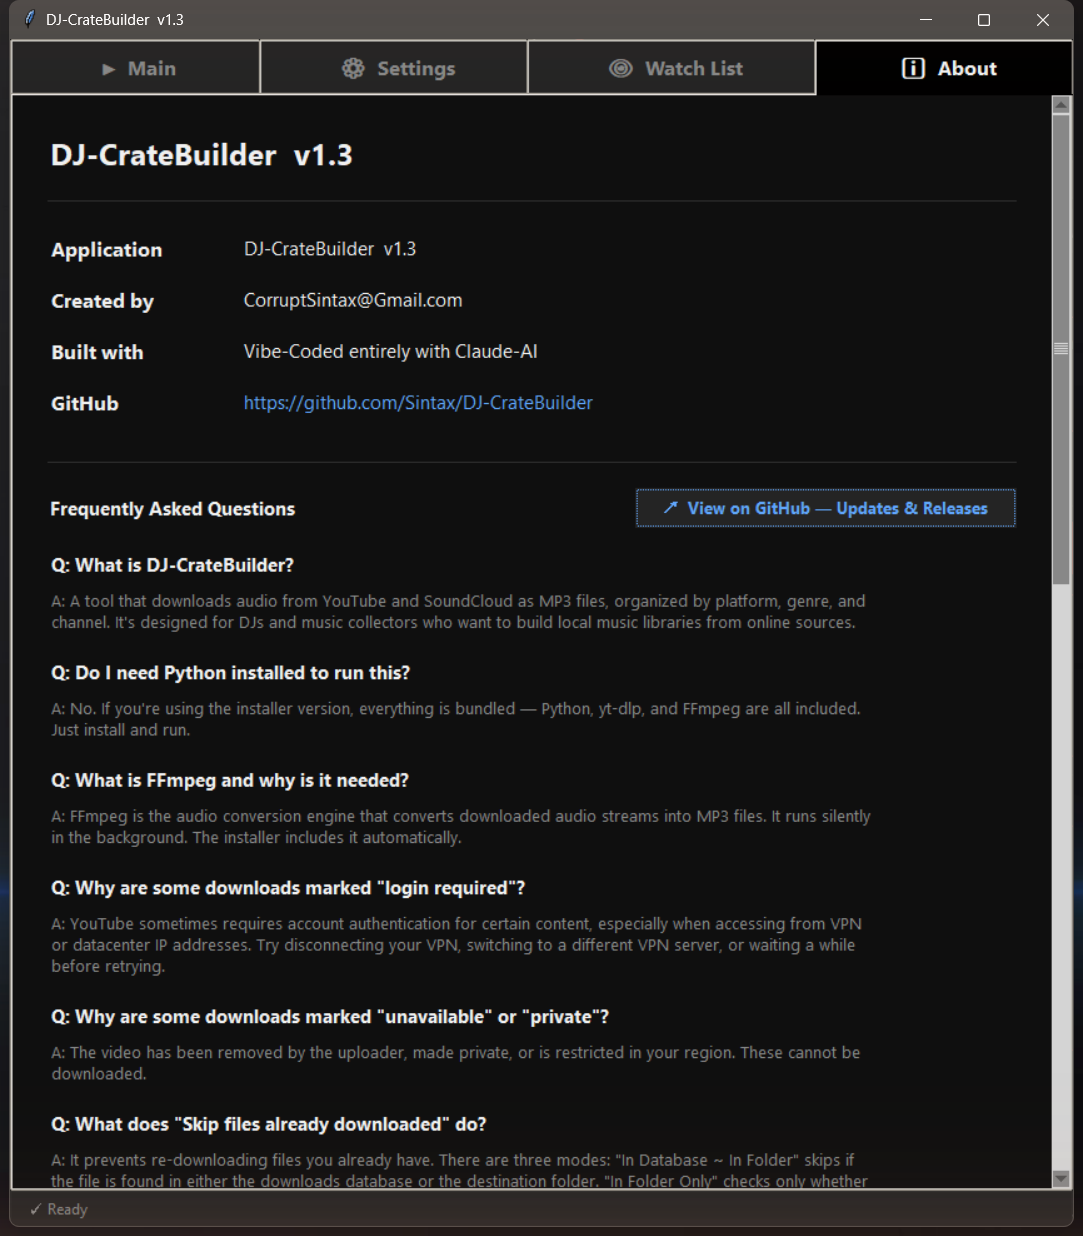
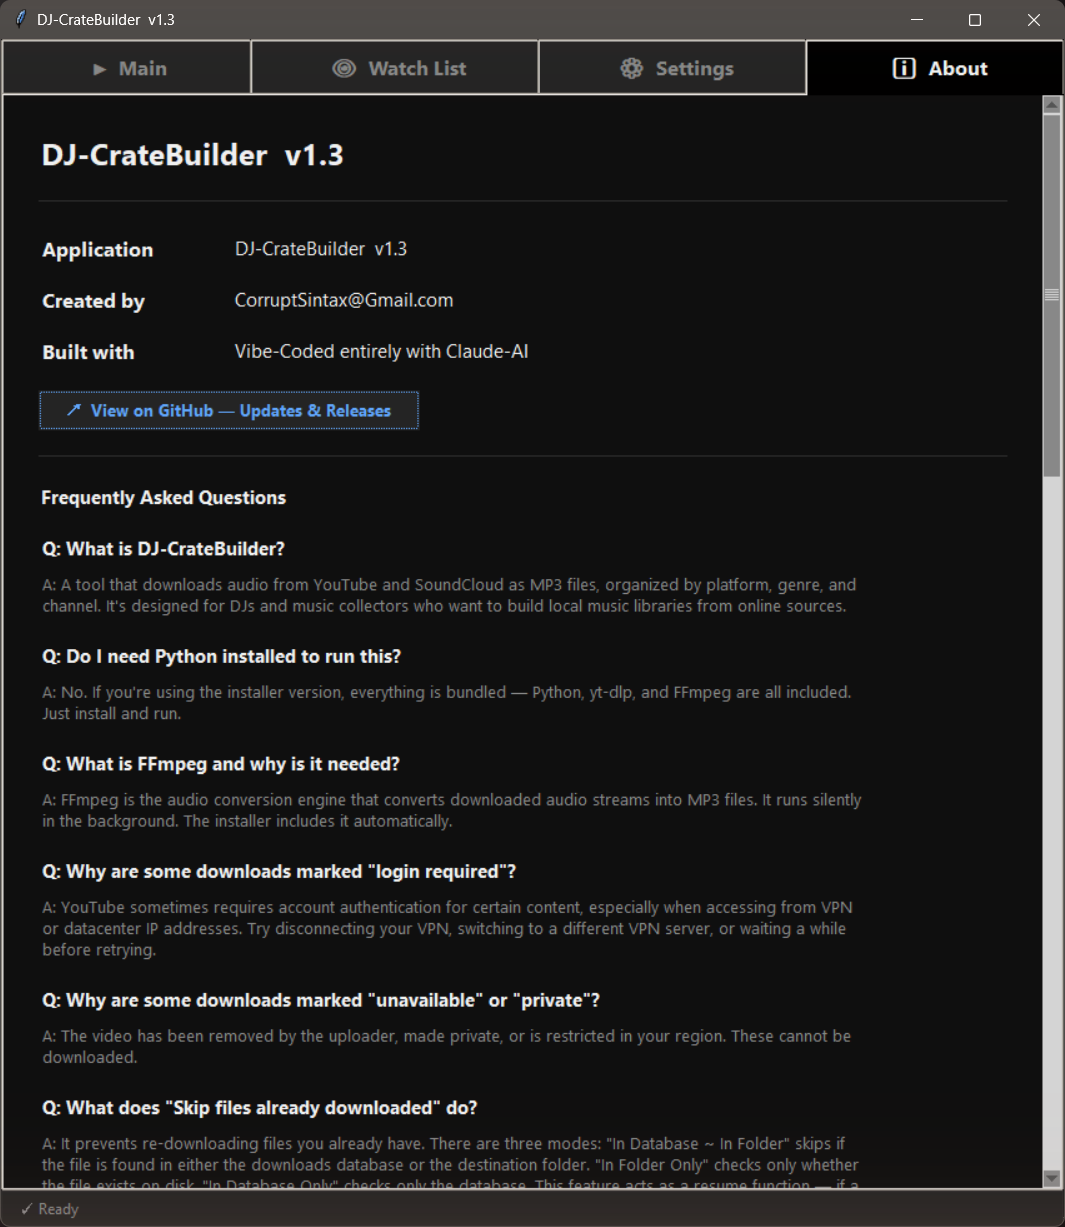
docs(v1.3): refresh README screenshots and fix installer scripts
- Capture fresh per-tab screenshots (Main → Watch List → Settings → About)
  and restructure README screenshots block to show each in order.
- install-linux.sh: install pystray + Pillow via requirements.txt and copy
  the cratebuilder/ package — without it v1.3 fails to import on launch.
- install-windows.bat: drop the stale worktree path + v1.2 fallback, point
  at the script's own directory, and verify cratebuilder/ is present.
- Packaging_Guide.md: ship cratebuilder/, requirements.txt, icon.ico in
  the Linux archive; expand the release checklist.

diff --git a/docs/Packaging_Guide.md b/docs/Packaging_Guide.md
@@ -77,14 +77,28 @@ This is the "just as easy as Windows" path you tested on the Linux Mint VM. No W
 
 ## What you ship
 
-A single archive (zip or tar.gz) containing three files:
+A single archive (zip or tar.gz) containing the launcher script, the
+`cratebuilder/` package it imports, the install/uninstall scripts, and the
+requirements file:
 
 ```
 DJ-CrateBuilder-v1.3-linux/
 ├── DJ-CrateBuilder_v1.3.py
+├── cratebuilder/            # required — the .py imports from this package
+│   ├── __init__.py
+│   ├── db.py
+│   ├── sidecar.py
+│   ├── startup.py
+│   ├── tray.py
+│   └── util.py
+├── requirements.txt         # yt-dlp, pystray, Pillow
+├── icon.ico                 # optional — used by the .desktop entry
 ├── install-linux.sh
 └── uninstall-linux.sh
 ```
+
+`install-linux.sh` refuses to run if `cratebuilder/` is missing — v1.3 will not
+launch without it.
 
 ## Build the release archive
 
@@ -93,9 +107,15 @@ From the repo root:
 ```bash
 mkdir -p release/DJ-CrateBuilder-v1.3-linux
 cp DJ-CrateBuilder_v1.3.py    release/DJ-CrateBuilder-v1.3-linux/
+cp -r cratebuilder            release/DJ-CrateBuilder-v1.3-linux/
+cp requirements.txt           release/DJ-CrateBuilder-v1.3-linux/
+cp icon.ico                   release/DJ-CrateBuilder-v1.3-linux/ 2>/dev/null || true
 cp install-linux.sh           release/DJ-CrateBuilder-v1.3-linux/
 cp uninstall-linux.sh         release/DJ-CrateBuilder-v1.3-linux/
 chmod +x release/DJ-CrateBuilder-v1.3-linux/*.sh
+
+# Strip any local __pycache__ so it doesn't ship
+find release/DJ-CrateBuilder-v1.3-linux -name __pycache__ -type d -exec rm -rf {} +
 
 cd release
 tar -czf DJ-CrateBuilder-v1.3-linux.tar.gz DJ-CrateBuilder-v1.3-linux/
@@ -115,8 +135,8 @@ zip -r DJ-CrateBuilder-v1.3-linux.zip DJ-CrateBuilder-v1.3-linux/
 The script:
 - Verifies Python 3.10+ and `tkinter`
 - Verifies `ffmpeg` is on PATH
-- Installs `yt-dlp` to user pip if missing
-- Copies the `.py` into `~/.local/share/DJ-CrateBuilder/`
+- Installs `yt-dlp`, `pystray`, and `Pillow` from `requirements.txt` (user pip)
+- Copies the `.py` and the `cratebuilder/` package into `~/.local/share/DJ-CrateBuilder/`
 - Creates the `dj-cratebuilder` command in `~/.local/bin/`
 - Creates a `.desktop` entry so it shows in the app menu
 
@@ -170,8 +190,11 @@ The **debug log** is new — it captures yt-dlp options, cookie config, and full
 # RELEASE CHECKLIST
 
 - [ ] `APP_VERSION = "1.3"` in `DJ-CrateBuilder_v1.3.py`
+- [ ] `pytest -q` passes (`requirements-dev.txt` installed)
 - [ ] Windows installer built and smoke-tested
-- [ ] Linux `.tar.gz` archive built
+- [ ] Linux `.tar.gz` archive built — contains `cratebuilder/` + `requirements.txt`
 - [ ] Tested `install-linux.sh` on Linux Mint VM
 - [ ] Tested `uninstall-linux.sh` (leaves MP3s intact)
 - [ ] Debug log viewer opens and displays data after a download
+- [ ] Watch List startup auto-scan refreshes new-track counts on launch
+- [ ] Tray icon appears when "Minimize to system tray" is enabled

diff --git a/README.md b/README.md
@@ -32,16 +32,28 @@ A desktop application for batch-downloading audio from YouTube and SoundCloud as
 
 ## Screenshots
 
+**Main** — paste URLs, queue a batch, download MP3s:
+
+<p align="left">
+  <img src="docs/screenshots/01-main.png" width="640">
+</p>
+
 **Watch List** — track channels and surface only new uploads:
 
 <p align="left">
-  <img src="docs/screenshots/03-watchlist.png" width="640">
+  <img src="docs/screenshots/02-watchlist.png" width="640">
 </p>
 
+**Settings** — automation, quality, throttle, and cookies:
+
 <p align="left">
-  <img src="docs/screenshots/01-main.png" width="320">
-  <img src="docs/screenshots/02-settings.png" width="320">
-  <img src="docs/screenshots/04-about.png" width="320">
+  <img src="docs/screenshots/03-settings.png" width="640">
+</p>
+
+**About** — version, links, and built-in FAQ:
+
+<p align="left">
+  <img src="docs/screenshots/04-about.png" width="640">
 </p>
 
 ---
@@ -179,9 +191,9 @@ package and the lazily-imported tray dependencies (pystray + Pillow). Copy
 
 ### Create Installer
 
-Use [Inno Setup 6](https://jrsoftware.org/isinfo.php) with the included `DJ-CrateBuilder_Installer.iss` file. Generate a unique GUID for the `AppId` field before compiling.
+Use [Inno Setup 6](https://jrsoftware.org/isinfo.php) with the included `docs/DJ-CrateBuilder_Installer_Windows.iss` file. Generate a unique GUID for the `AppId` field before compiling.
 
-See `Packaging_Guide.md` for detailed instructions.
+See [docs/Packaging_Guide.md](docs/Packaging_Guide.md) for detailed instructions.
 
 ---
 
